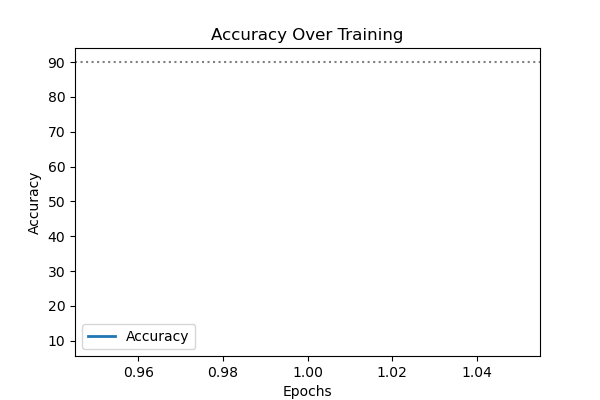
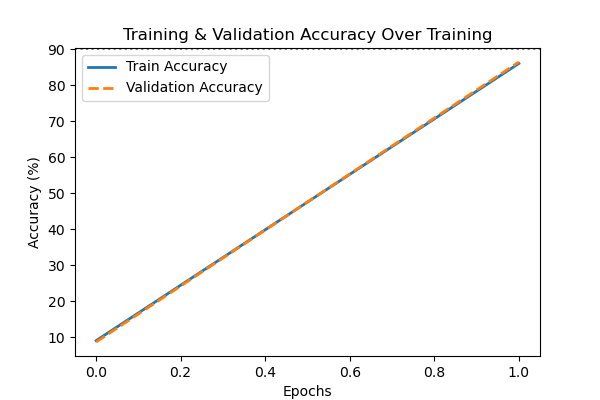
added accuracy graph

diff --git a/forward_forward_topoloss/model.py b/forward_forward_topoloss/model.py
@@ -9,15 +9,16 @@ import os
 device = torch.device("cuda" if torch.cuda.is_available() else "cpu")
 
 class Net(nn.Module):
-    def __init__(self, dims, checkpoint_path="checkpoints/model_checkpoint.pth"):
+    def __init__(self, dims, checkpoint_dir="checkpoints"):
         super().__init__()
-        self.layers = []
         self.layers = nn.ModuleList([
             Layer(dims[d], dims[d + 1], last_layer=(d == len(dims) - 2)).to(device)
             for d in range(len(dims) - 1)
         ])
-        self.checkpoint_path = checkpoint_path
-        self.accuracy_history = []
+        self.checkpoint_dir = checkpoint_dir
+        self.checkpoint_path = self._generate_checkpoint_path(dims)
+        self.train_accuracy_history = []
+        self.val_accuracy_history = []  
         
     def predict(self, x):
         goodness_per_label = []
@@ -31,29 +32,43 @@ class Net(nn.Module):
         goodness_per_label = torch.cat(goodness_per_label, 1)
         return goodness_per_label.argmax(1)
 
-    def train(self, x_pos, x_neg):
-        """Trains all layers and saves the model after training."""
+    def train(self, x_pos, x_neg, y_train, x_val, y_val):
+        """Trains all layers, computes accuracy, and saves checkpoint after training."""
         h_pos, h_neg = x_pos, x_neg
-        acc = self.predict(x_pos).eq(torch.argmax(x_pos, dim=1)).float().mean().item() * 100
-        self.accuracy_history.append(acc)
-        
+
+        # Compute train accuracy before training
+        train_acc = self.predict(x_pos).eq(y_train).float().mean().item() * 100
+        self.train_accuracy_history.append(train_acc)
+
+        # Compute validation accuracy before training
+        val_acc = self.predict(x_val).eq(y_val).float().mean().item() * 100
+        self.val_accuracy_history.append(val_acc)
+
         for i, layer in enumerate(self.layers):
             print(f'Training layer {i}...')
             h_pos, h_neg = layer.train(h_pos, h_neg)
-        
+
+        # Compute final validation accuracy
+        final_train_acc = self.predict(x_pos).eq(y_train).float().mean().item() * 100
+        self.train_accuracy_history.append(final_train_acc)
+
+        final_val_acc = self.predict(x_val).eq(y_val).float().mean().item() * 100
+        self.val_accuracy_history.append(final_val_acc)
+
+        # Save model after training
         self.save_checkpoint()
     
-    def _generate_checkpoint_path(self, dims, lr):
+    def _generate_checkpoint_path(self, dims):
         """Generates a filename based on the model hyperparameters."""
         os.makedirs(self.checkpoint_dir, exist_ok=True)
         layer_sizes = "_".join(map(str, dims))  
-        return f"{self.checkpoint_dir}/model_{layer_sizes}_lr{lr}.pth"
+        return f"{self.checkpoint_dir}/model_{layer_sizes}.pth"
         
     def save_checkpoint(self):
         """Saves model state after training with a descriptive filename."""
         checkpoint = {
             "model_state": self.state_dict(),
-            "accuracy_history": self.accuracy_history,
+            "accuracy_history": self.val_accuracy_history,
         }
         torch.save(checkpoint, self.checkpoint_path)
         print(f"Model saved: {self.checkpoint_path}")
@@ -63,11 +78,11 @@ class Net(nn.Module):
         if os.path.exists(self.checkpoint_path):
             checkpoint = torch.load(self.checkpoint_path)
             self.load_state_dict(checkpoint["model_state"])
-            self.accuracy_history = checkpoint["accuracy_history"]
+            self.val_accuracy_history = checkpoint["accuracy_history"]
             print(f"Loaded saved model: {self.checkpoint_path}")
 
     def get_accuracy_history(self):
-        return self.accuracy_history
+        return self.train_accuracy_history, self.val_accuracy_history
 
 class Layer(nn.Linear):
     def __init__(self, in_features, out_features,last_layer=False, num_epochs = 1000,

diff --git a/forward_forward_topoloss/visualizations.py b/forward_forward_topoloss/visualizations.py
@@ -18,7 +18,8 @@ def visualize_sample(data, name='', idx=0):
     print(f"Saved: {filename}")
 
     plt.show() 
-def plot_loss(loss_values, name="topological_loss.png"):
+    
+def plot_loss(loss_values, name="topological_loss"):
     """Plots and saves the Topological Loss graph."""
     os.makedirs("plots", exist_ok=True)
     if not loss_values:
@@ -37,20 +38,18 @@ def plot_loss(loss_values, name="topological_loss.png"):
     plt.savefig(filename)
     plt.show()
 
-def plot_accuracy(accuracy_history, name="accuracy.png"):
-    """Plots and saves the Accuracy graph."""
-    if not accuracy_history:  
-        print("Warning: No accuracy data to plot!")
-        return
-    
-    os.makedirs("plots", exist_ok=True)
-    epochs = list(range(1, len(accuracy_history) + 1))  # Correct x-axis range
+def plot_accuracy(train_acc_hist, val_acc_hist, name="accuracy"):
+    """Plots training and validation accuracy over epochs."""
     plt.figure(figsize=(6, 4))
-    plt.plot(epochs, accuracy_history, label="Accuracy", linewidth=2)
+    epochs = list(range(len(train_acc_hist)))
+
+    plt.plot(epochs, train_acc_hist, label="Train Accuracy", linewidth=2)
+    plt.plot(epochs, val_acc_hist, label="Validation Accuracy", linestyle="dashed", linewidth=2)
+
     plt.axhline(y=90, color='gray', linestyle='dotted')
     plt.xlabel("Epochs")
-    plt.ylabel("Accuracy")
-    plt.title("Accuracy Over Training")
+    plt.ylabel("Accuracy (%)")
+    plt.title("Training & Validation Accuracy Over Training")
     plt.legend()
     filename = f"plots/{name}.png"
     plt.savefig(filename)

diff --git a/forward_forward_topoloss/main.py b/forward_forward_topoloss/main.py
@@ -11,22 +11,22 @@ Main execution function.
 
 device = torch.device("cuda" if torch.cuda.is_available() else "cpu")
 torch.manual_seed(1234)
-train_loader, test_loader, x, y, x_pos, x_neg = prepare_data()
+train_loader, test_loader, x_train, y_train, x_pos_train, x_neg_train, x_val, y_val = prepare_data()
 
 net = Net([784, 500, 500, 10])  
 
-for data, name in zip([x, x_pos, x_neg], ['orig', 'pos', 'neg']):
+for data, name in zip([x_train, x_pos_train, x_neg_train], ['orig', 'pos', 'neg']):
     visualize_sample(data, name)
 
-# Train and collect loss & accuracy (saves checkpoints)
-loss_values, net = train_and_evaluate(net, x, y, x_pos, x_neg, test_loader)
+# Train with validation tracking
+net.train(x_pos_train, x_neg_train, y_train, x_val, y_val)
 
-# Collect accuracy history per layer
-accuracy_histories = net.get_accuracy_history()
+# Collect accuracy history
+train_acc_hist, val_acc_hist = net.get_accuracy_history()
 
-# Plot results
+# Generate plots
 plot_loss([layer.loss_history for layer in net.layers], name="topological_loss")
-plot_accuracy(accuracy_histories, name="accuracy")
+plot_accuracy(train_acc_hist, val_acc_hist, name="accuracy")
 
 
 

diff --git a/forward_forward_topoloss/data.py b/forward_forward_topoloss/data.py
@@ -30,11 +30,12 @@ def MNIST_loaders(train_batch_size=50000, test_batch_size=10000):
 def prepare_data():
     """Load MNIST dataset and preprocess batch for training."""
     train_loader, test_loader = MNIST_loaders()
-    x, y = next(iter(train_loader))
-    x, y = x.to(device), y.to(device)
+    x_train, y_train = next(iter(train_loader))
+    x_train, y_train = x_train.to(device), y_train.to(device)
+    x_pos_train = overlay_y_on_x(x_train, y_train)
+    rnd = torch.randperm(x_train.size(0))
+    x_neg_train = overlay_y_on_x(x_train, y_train[rnd])
 
-    x_pos = overlay_y_on_x(x, y)
-    rnd = torch.randperm(x.size(0))
-    x_neg = overlay_y_on_x(x, y[rnd])
-
-    return train_loader, test_loader, x, y, x_pos, x_neg
+    x_val, y_val = next(iter(test_loader))  
+    x_val, y_val = x_val.to(device), y_val.to(device)
+    return train_loader, test_loader, x_train, y_train, x_pos_train, x_neg_train, x_val, y_val

diff --git a/forward_forward_topoloss/train.py b/forward_forward_topoloss/train.py
@@ -1,6 +1,6 @@
 import torch
-
 device = torch.device("cuda" if torch.cuda.is_available() else "cpu")
+
 
 def train_and_evaluate(net, x, y, x_pos, x_neg, test_loader):
     """Train the model, compute accuracy, and generate plots."""
